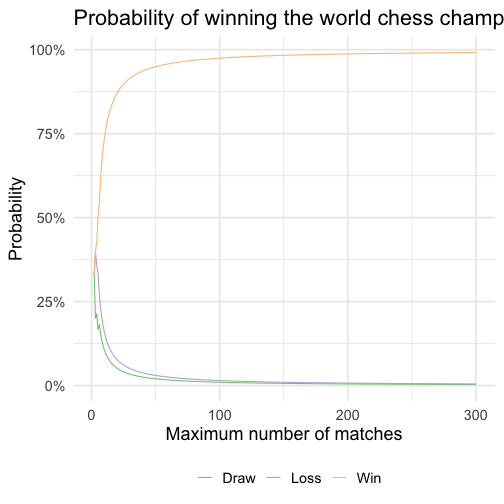
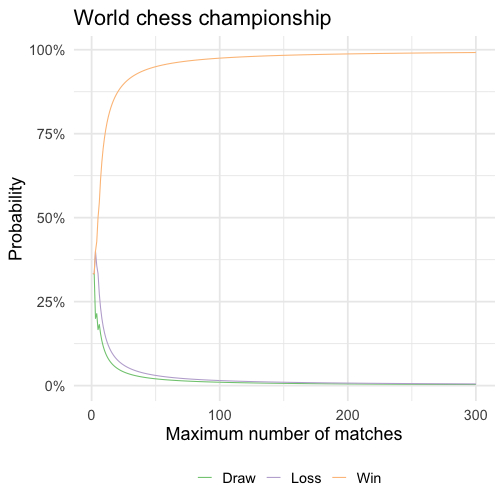
Fix image title

Changed region(s): [[0.1488, 0.0, 1.0, 0.0595]]

diff --git a/_posts/2018-11-16-world-chess-championship.md b/_posts/2018-11-16-world-chess-championship.md
@@ -71,7 +71,7 @@ varying_matches <- data_frame(n_matches = 1:300) %>%
 ggplot(varying_matches, aes(n_matches, prob_win)) +
   geom_line() +
   scale_y_continuous(labels = scales::percent) +
-  labs(title = "Probability of winning the world chess championship",
+  labs(title = "World chess championship",
        x = "Maximum number of matches",
        y = "Probability of victory")
 {% endhighlight %}
@@ -87,7 +87,7 @@ varying_matches %>%
   geom_line() +
   scale_y_continuous(labels = scales::percent) +
   scale_color_brewer(type = "qual") +
-  labs(title = "Probability of winning the world chess championship",
+  labs(title = "World chess championship",
        x = "Maximum number of matches",
        y = "Probability",
        color = NULL) +
